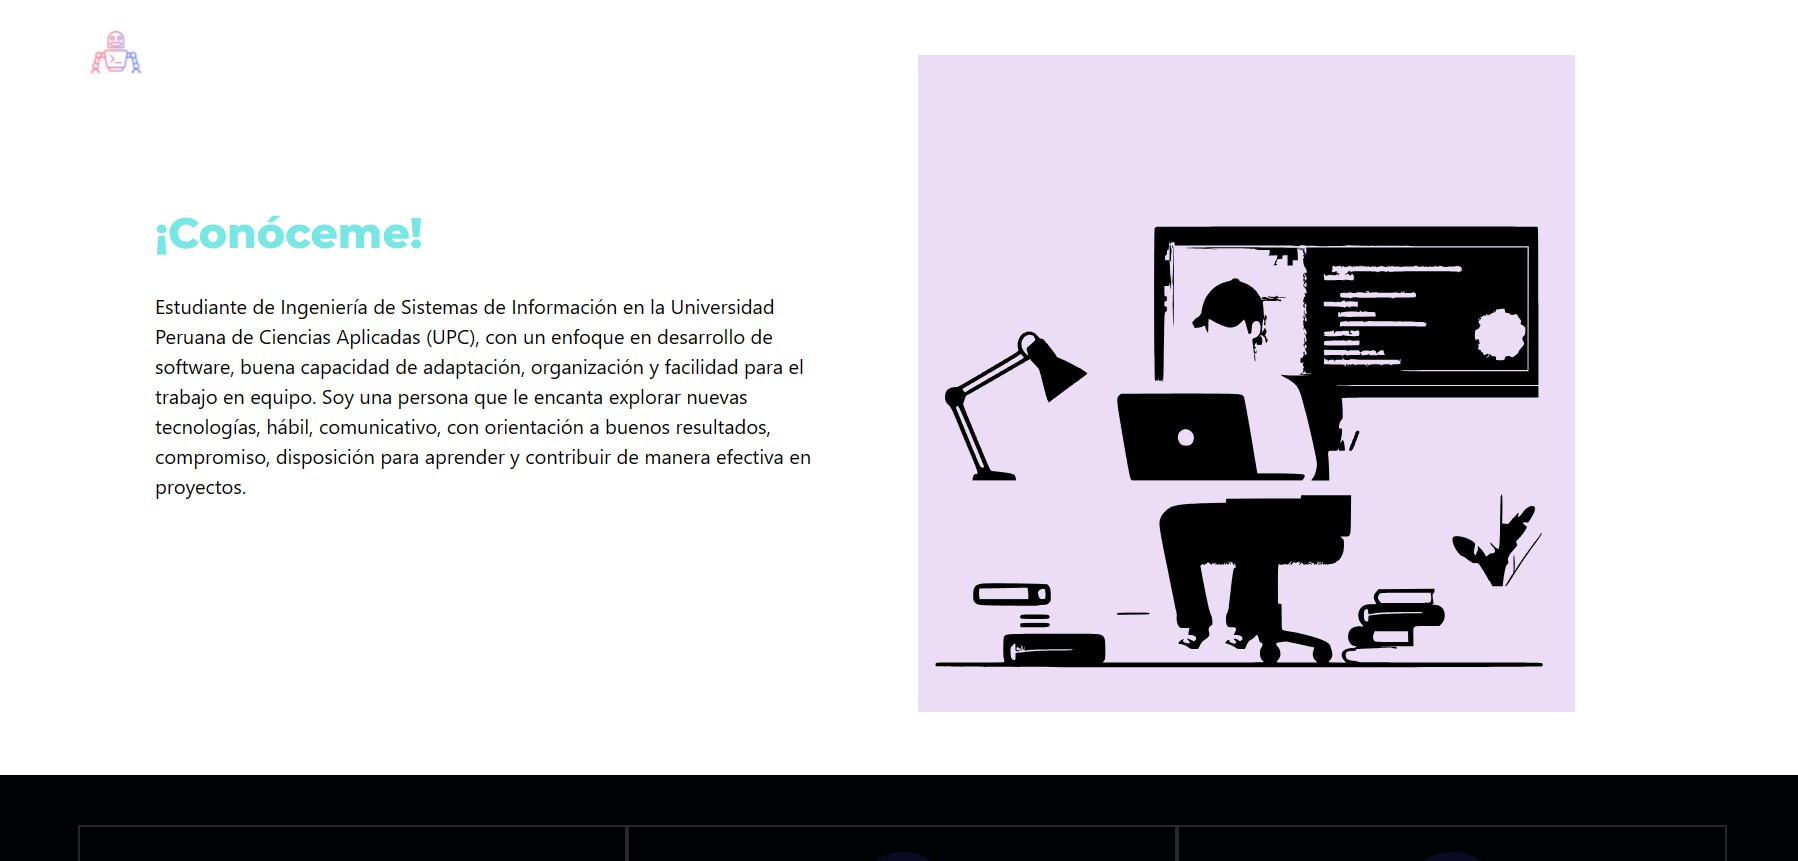
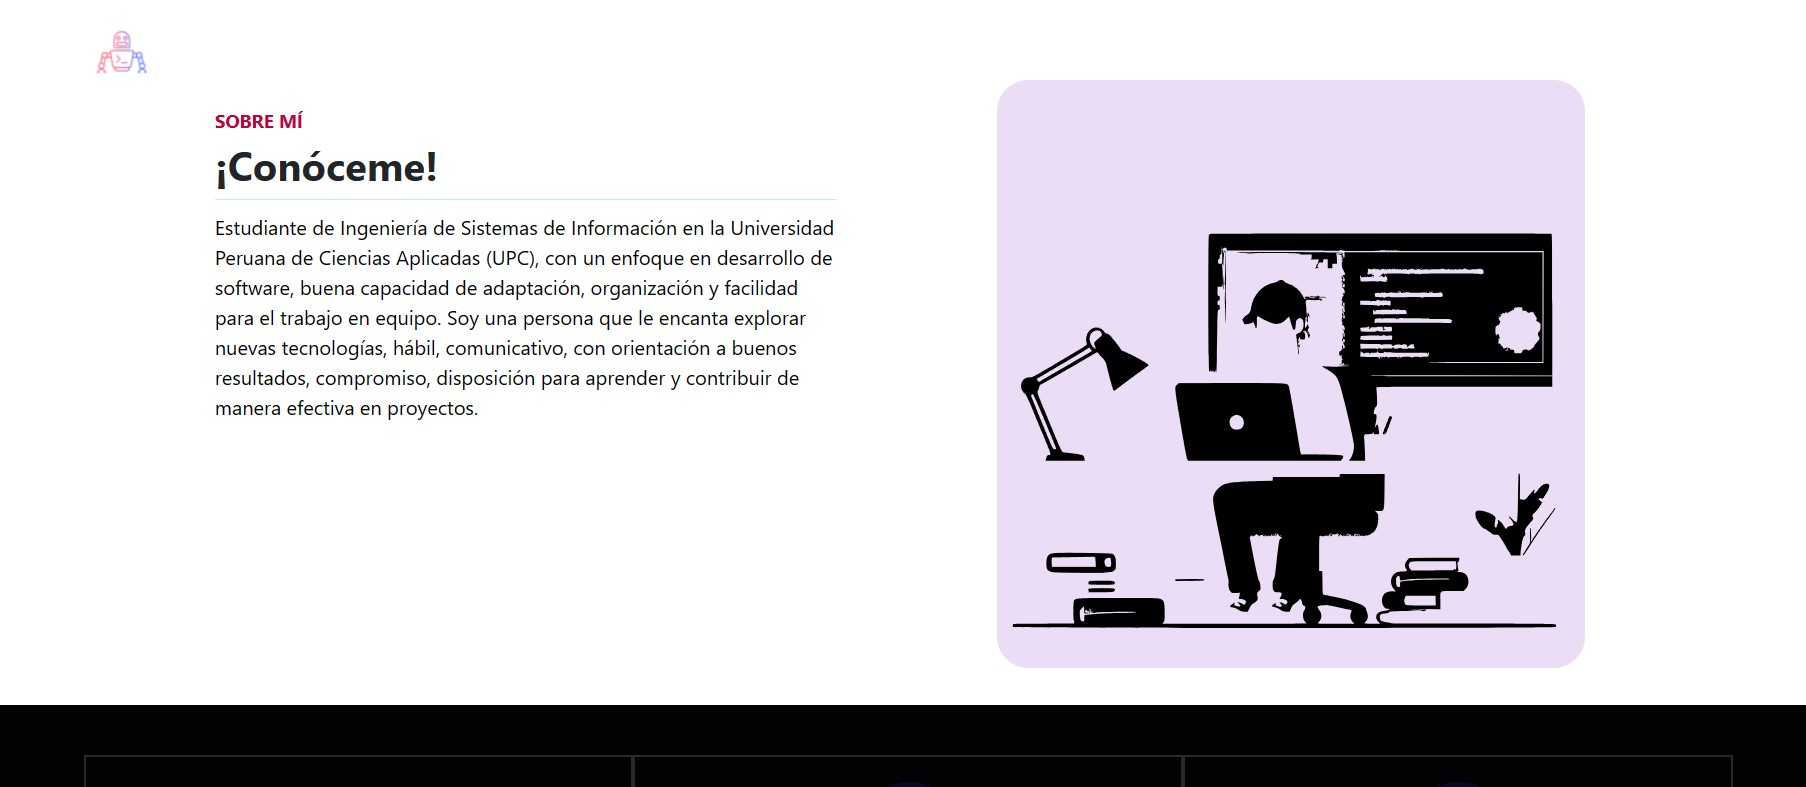
Update files ...

diff --git a/index.html b/index.html
@@ -59,7 +59,7 @@
 
                 <ul class="navbar-nav d-flex justify-content-center align-items-center">
                   <li class="nav-item">
-                    <a class="nav-link active" aria-current="page" href="#sobre-mi-3">Sobre mí</a>
+                    <a class="nav-link active" aria-current="page" href="#sobre-mi">Sobre mí</a>
                   </li>
                   <li class="nav-item">
                     <a class="nav-link" href="#proyectos">Proyectos</a>
@@ -94,25 +94,55 @@
             </div>
         </section>
         
-        <!-- Sobre mi -->
-        <section id="sobre-mi-3" class="sobre-mi-3 seccion-oscura">
-          <div class="container">
-              <div class="row align-items-center">
-                  <div class="col-md-6">
-                      <div class="texto-sobre-mi-3">
-                          <h2>¡Conóceme!</h2>
-                          <p class="parrafo">Estudiante de Ingeniería de Sistemas de Información en la Universidad Peruana de Ciencias Aplicadas (UPC), con un enfoque en desarrollo de software, buena capacidad de adaptación, organización y facilidad para el trabajo en equipo. Soy una persona que le encanta explorar nuevas tecnologías, hábil, comunicativo, con orientación a buenos resultados, compromiso, disposición para aprender y contribuir de manera efectiva en proyectos.</p>
-                      </div>
-                  </div>
-                  <div class="col-md-5">
-                      <div class="imagen-sobre-mi-3">
-                          <img class="img-fluid-2" src="imagenes/imagenes-desarrolladores/img-programador11.svg" alt="Monitor, laptop y logos HTML CSS, JavaScript, React.">
-                      </div>
-                  </div>
+        <!--Sobre mi2 => About me
+        <section>
+          <div class="about">
+            <div class="about-content container-a">
+              
+              <div class="about-txt">
+                <span class="span-a">Seccion</span>
+                <h2 class="titulo">Nosotros</h2>
+                <hr>
+                <p class="p-about-me col-md-10">
+                  Lorem ipsum dolor sit amet consectetur adipisicing elit. Voluptates cupiditate quaerat voluptatibus quis vel! Reprehenderit non quas, aliquid numquam atque ad tempora ea, minus facere esse voluptas corrupti eveniet unde.
+                  Lorem ipsum dolor sit amet consectetur adipisicing elit. Maiores tenetur itaque officiis expedita nostrum sunt quaerat! Odio in dolores at praesentium iure earum quos, iusto exercitationem tempore optio autem! Odit?
+                </p>
               </div>
+              <div class="about-img col-md-6">
+                <img src="./imagenes/imagenes-desarrolladores/img-sobremi.png" alt="">
+              </div>
+            </div>
           </div>
-      </section>
-      
+
+        </section>
+        -->
+
+        <!-- About me 3 -->
+        <section id="sobre-mi">
+          <div class="about">
+            <div class="about-content container-a">
+              <div class="row">
+                <div class="col-md-6">
+                  <div class="about-txt">
+                    <span class="span-a">Sobre mí</span>
+                    <h2 class="titulo-about-me">¡Conóceme!</h2>
+                    <hr>
+                    <p class="p-about-me">
+                      Estudiante de Ingeniería de Sistemas de Información en la Universidad Peruana de Ciencias Aplicadas (UPC), con un enfoque en desarrollo de software, buena capacidad de adaptación, organización y facilidad para el trabajo en equipo. Soy una persona que le encanta explorar nuevas tecnologías, hábil, comunicativo, con orientación a buenos resultados, compromiso, disposición para aprender y contribuir de manera efectiva en proyectos.
+                    </p>
+                  </div>
+                </div>
+                <div class="col-md-6">
+                  <div class="about-img">
+                    <img src="./imagenes/imagenes-desarrolladores/img-programador11.svg" alt="">
+                  </div>
+                </div>
+              </div>
+            </div>
+          </div>
+        </section>
+        
+
         <!-- ***************************************************** -->
 
         <!-- Experiencia -->
@@ -161,6 +191,7 @@
                 </div>
             </div>
         </section>
+        
         
         <!-- Proyectos -->
         <section id="proyectos" class="proyectos-recientes seccion-oscura d-flex flex-column">

diff --git a/style.css b/style.css
@@ -246,16 +246,16 @@ h1 {
 
 /* Seccion Sobre mi - texto,imagen*/
 /* Nueva hoja */
-/* Estilos adicionales para la nueva sección sobre-mi-3 */
+/* Estilos adicionales para la nueva sección sobre-mi-3 
 .sobre-mi-3 {
     padding: 50px 0;
-    background-color: white; /* Cambia el color de fondo a blanco */
+    background-color: white; /* Cambia el color de fondo a blanco 
 }
 
 .texto-sobre-mi-3 {
     padding: 50px;
     margin-bottom: 30px;
-    color: #000000; /* Cambia el color del texto a blanco */
+    color: #000000; 
 }
 
 .texto-sobre-mi-3 h2 {
@@ -271,19 +271,17 @@ h1 {
 .texto-sobre-mi-3 p {
     align-items: center center;
     font-size: 16px;
-    max-width: 100%; /* Ajusta el ancho máximo del párrafo */
+    max-width: 100%; 
     
 }
 
 .imagen-sobre-mi-3 img {
-    max-width: 100%; /* Ajusta la imagen para que sea responsive */
+    max-width: 100%; 
     height: auto;
     width: auto;
-    /*
-    align-items: center center;
-    float: middle; /* Alinea la imagen a la izq del container */
+   
 }
-
+*/
 /* *** */
 
 .texto-negro {
@@ -330,6 +328,58 @@ h1 {
     max-width: 600px;
     text-align: center;
 }
+
+/* --- --- */
+/* ------- */
+/*about me*/
+.container-a {
+    max-width: 1200px;
+    margin: 30px 12px;
+}
+
+.p-about-me {
+    margin-top: 10px;
+    font-size: 16px;
+    color:#000000
+}
+
+.about {
+    padding: 0px 0;
+    margin-top: 0px;
+}
+
+.about-content {
+    display: flex;
+    align-items: center;
+}
+
+/* Eliminamos la clase .about-content y otras reglas no utilizadas */
+
+.about-txt {
+    padding: 10px 45px; /* Añadimos un relleno para dispositivos pequeños */
+    margin-top: 50px;
+  }
+
+.span-a{
+    font-size: 15px;
+    font-weight: 700;
+    text-transform: uppercase;
+    color:#C30239;
+}
+.titulo-about-me{
+    margin-top: 5px;
+    font-weight: 700;
+}
+.about-img {
+    text-align: center;
+    margin-top: 40px; /* Añadimos un margen superior para separar la imagen del texto en dispositivos pequeños */
+  }
+  
+  .about-img img {
+    max-width: 80%; /* Hacemos que la imagen sea responsive */
+    height: auto; /* Mantenemos la proporción de la imagen */
+    border-radius: 25px;
+  }
 
 /* Experiencia */
 
